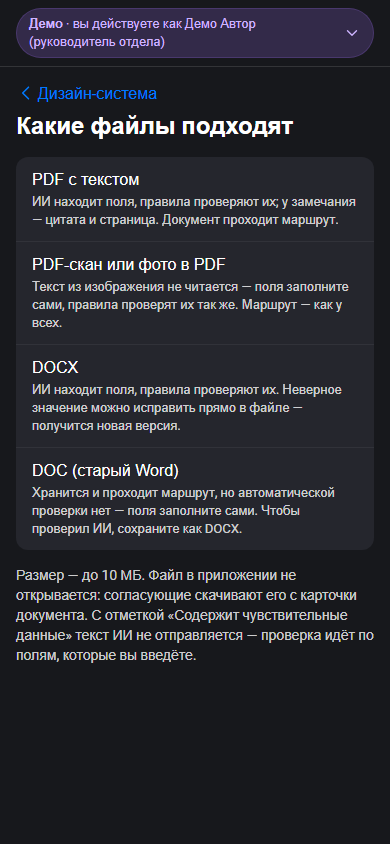
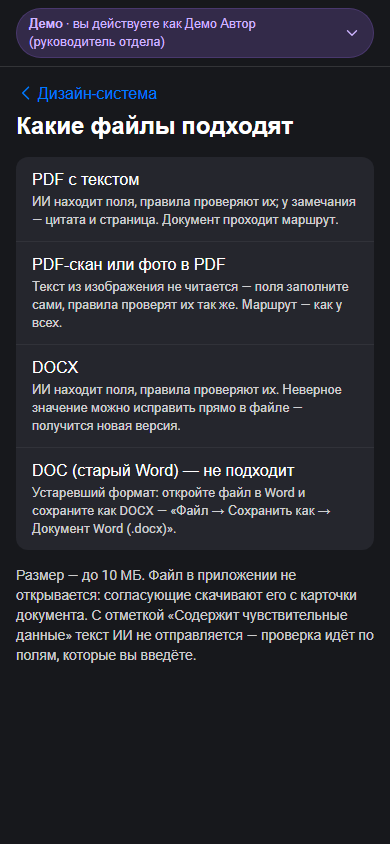
feat(document): DOC не принимаем — совет сохранить как DOCX (D1 пересмотрено) (#108)
Решение Булата 26.09: «принимаем DOC без проверки» выглядело недоделкой — формат заявлен, а ИИ молчит
и поля пустые. Теперь DOC отклоняется и на сервере, и в зоне загрузки с советом пересохранить;
в справке — строка «DOC — не подходит». Черновики, загруженные раньше, не трогаем.

Changed region(s): [[0.0615, 0.5545, 0.8615, 0.6469]]

diff --git a/frontend/src/screens/documents/uploadFormats.ts b/frontend/src/screens/documents/uploadFormats.ts
@@ -1,4 +1,5 @@
-// Какие файлы подходят основным файлом документа (UPL-1, UPL-2, UPL-6, D1). Проверка — сразу после выбора, до отправки,
+// Какие файлы подходят основным файлом документа (UPL-1, UPL-2, UPL-6, D1): PDF и DOCX. DOC не принимаем (D1, пересмотрено
+// 26.09): ИИ его не читает, а полуработающий формат выглядит недоделкой; человеку говорим, как пересохранить. Проверка — сразу после выбора, до отправки,
 // чтобы ошибка появилась в зоне загрузки, а не внизу страницы после ожидания. Сервер проверяет ещё раз — по содержимому.
 
 /** Шаги создания документа (UPL-3) — одинаковые на экранах загрузки, проверки и маршрута. */
@@ -7,14 +8,18 @@ export const CREATE_STEPS = ['Файл', 'Проверка', 'Маршрут'];
 export const MAX_FILE_MB = 10;
 const MAX_FILE_BYTES = MAX_FILE_MB * 1024 * 1024;
 
+/** Строка под зоной загрузки. */
+export const MAIN_FILE_CAPTION = `PDF или DOCX · до ${MAX_FILE_MB} МБ`;
+
+/** Совет для DOC — тот же, что у сервера (DocumentFileValidator). */
+export const DOC_NOT_SUPPORTED = 'DOC — устаревший формат Word. Откройте файл в Word и сохраните как DOCX: «Файл → Сохранить как → Документ Word (.docx)».';
+
 /** Для атрибута accept: браузер и MAX сразу предлагают только подходящие файлы. */
 export const MAIN_FILE_ACCEPT = [
   '.pdf',
   '.docx',
-  '.doc',
   'application/pdf',
   'application/vnd.openxmlformats-officedocument.wordprocessingml.document',
-  'application/msword',
 ].join(',');
 
 type Format = 'pdf' | 'docx' | 'doc';
@@ -37,11 +42,14 @@ const IMAGE = /^(jpe?g|png|heic|heif|webp|gif|bmp|tiff?)$/;
 /** Что не так с файлом — текстом для зоны загрузки; null — подходит. */
 export function fileProblem(file: { name: string; type: string; size: number }): string | null {
   const format = formatOf(file);
+  if (format === 'doc') {
+    return DOC_NOT_SUPPORTED;
+  }
   if (!format) {
     if (IMAGE.test(extension(file.name)) || file.type.startsWith('image/')) {
-      return 'Фото не подходит. Загрузите PDF, DOCX или DOC — например, сохраните документ из Word.';
+      return 'Фото не подходит. Загрузите PDF или DOCX — например, сохраните документ из Word.';
     }
-    return `Файл «${file.name}» не подходит. Загрузите PDF, DOCX или DOC.`;
+    return `Файл «${file.name}» не подходит. Загрузите PDF или DOCX.`;
   }
   if (file.size > MAX_FILE_BYTES) {
     return `Файл больше ${MAX_FILE_MB} МБ. Уменьшите его или загрузите основную часть, остальное — приложениями.`;
@@ -50,9 +58,4 @@ export function fileProblem(file: { name: string; type: string; size: number }):
     return 'Файл пустой — выберите другой.';
   }
   return null;
-}
-
-/** DOC ИИ не читает: такой файл проходит маршрут, но поля заполняются вручную (D1). */
-export function hasLimitedCheck(file: { name: string; type: string }): boolean {
-  return formatOf(file) === 'doc';
 }

diff --git a/frontend/src/screens/documents/uploadFormats.test.ts b/frontend/src/screens/documents/uploadFormats.test.ts
@@ -1,20 +1,19 @@
 import { describe, expect, it } from 'vitest';
-import { fileProblem, hasLimitedCheck } from './uploadFormats';
+import { DOC_NOT_SUPPORTED, MAIN_FILE_ACCEPT, fileProblem } from './uploadFormats';
 
 describe('какие файлы подходят (UPL-2, UPL-6)', () => {
   const file = (name: string, type = '', size = 1024) => ({ name, type, size });
 
-  it('PDF, DOCX и DOC подходят — по расширению или по типу', () => {
+  it('PDF и DOCX подходят — по расширению или по типу', () => {
     expect(fileProblem(file('Записка.PDF'))).toBeNull();
     expect(fileProblem(file('Записка.docx'))).toBeNull();
-    expect(fileProblem(file('Приказ.doc'))).toBeNull();
     expect(fileProblem(file('scan', 'application/pdf'))).toBeNull();
   });
 
   it('фото — понятным текстом, остальное — с именем файла', () => {
     expect(fileProblem(file('IMG_2031.jpg', 'image/jpeg'))).toMatch(/^Фото не подходит/);
     expect(fileProblem(file('photo.HEIC'))).toMatch(/^Фото не подходит/);
-    expect(fileProblem(file('Смета.xlsx'))).toBe('Файл «Смета.xlsx» не подходит. Загрузите PDF, DOCX или DOC.');
+    expect(fileProblem(file('Смета.xlsx'))).toBe('Файл «Смета.xlsx» не подходит. Загрузите PDF или DOCX.');
   });
 
   it('слишком большой и пустой файл', () => {
@@ -22,9 +21,11 @@ describe('какие файлы подходят (UPL-2, UPL-6)', () => {
     expect(fileProblem(file('empty.pdf', '', 0))).toMatch(/пустой/);
   });
 
-  it('ограниченная проверка — только у DOC', () => {
-    expect(hasLimitedCheck(file('Приказ.doc'))).toBe(true);
-    expect(hasLimitedCheck(file('Приказ.docx'))).toBe(false);
+  it('DOC не принимаем, но говорим, как пересохранить (D1, пересмотрено 26.09)', () => {
+    expect(fileProblem(file('Приказ.doc'))).toBe(DOC_NOT_SUPPORTED);
+    expect(fileProblem(file('scan', 'application/msword'))).toBe(DOC_NOT_SUPPORTED);
+    expect(MAIN_FILE_ACCEPT).not.toContain('.doc,');
+    expect(MAIN_FILE_ACCEPT).not.toContain('msword');
   });
 });
 

diff --git a/frontend/src/screens/dev/UploadStatesScreen.tsx b/frontend/src/screens/dev/UploadStatesScreen.tsx
@@ -1,13 +1,13 @@
 import { FileDrop, Page, PageHeader, Section } from '../../ui';
 import { FormatsHelp } from '../documents/FormatsHelp';
-import { MAIN_FILE_ACCEPT, MAX_FILE_MB, fileProblem } from '../documents/uploadFormats';
+import { MAIN_FILE_ACCEPT, MAIN_FILE_CAPTION, fileProblem } from '../documents/uploadFormats';
 
 // Состояния зоны загрузки (UPL-1, UPL-2, UPL-6) на одном экране — только dev: их не открыть по адресу, а снимки для
 // ревью нужны. ?part=help — содержимое справки «Какие файлы подходят».
 
 const photo = { name: 'IMG_2031.jpg', type: 'image/jpeg', size: 2_400_000 };
 const doc = new File([new Uint8Array(48_000)], 'Приказ_о_премии.doc', { type: 'application/msword' });
-const caption = `PDF, DOCX или DOC · до ${MAX_FILE_MB} МБ`;
+const caption = MAIN_FILE_CAPTION;
 const noop = () => undefined;
 
 export function UploadStatesScreen() {
@@ -24,17 +24,8 @@ export function UploadStatesScreen() {
           <Section title="Фото — ошибка в зоне">
             <FileDrop file={null} accept={MAIN_FILE_ACCEPT} title="Выберите файл документа" caption={caption} error={fileProblem(photo)} help={<FormatsHelp />} onSelect={noop} onRemove={noop} />
           </Section>
-          <Section title="DOC — спокойная пометка">
-            <FileDrop
-              file={doc}
-              accept={MAIN_FILE_ACCEPT}
-              title="Выберите файл документа"
-              caption={caption}
-              note="Для этого файла автоматическая проверка недоступна — поля заполните вручную."
-              help={<FormatsHelp />}
-              onSelect={noop}
-              onRemove={noop}
-            />
+          <Section title="DOC — совет пересохранить">
+            <FileDrop file={null} accept={MAIN_FILE_ACCEPT} title="Выберите файл документа" caption={caption} error={fileProblem(doc)} help={<FormatsHelp />} onSelect={noop} onRemove={noop} />
           </Section>
         </>
       )}

diff --git a/frontend/src/screens/documents/FormatsHelp.tsx b/frontend/src/screens/documents/FormatsHelp.tsx
@@ -3,7 +3,8 @@ import { MAX_FILE_MB } from './uploadFormats';
 
 /**
  * «Какие файлы подходят» (UPL-6) — только то, что реально работает в коде: текст PDF читает PDFBox, DOCX — средствами
- * JDK, DOC и сканы без текстового слоя не читаются (D1; CLAUDE.md, «Сканы без текстового слоя не распознаём»). Файл
+ * JDK, сканы без текстового слоя не читаются (CLAUDE.md, «Сканы без текстового слоя не распознаём»). DOC не принимаем
+ * (D1, пересмотрено 26.09) — в справке сказано, как пересохранить. Файл
  * в приложении не открывается — только скачивается. Маршрут согласования проходит любой из этих форматов.
  */
 export function FormatsHelp() {
@@ -23,8 +24,8 @@ export function FormatsHelp() {
           subtitle="ИИ находит поля, правила проверяют их. Неверное значение можно исправить прямо в файле — получится новая версия."
         />
         <Row
-          title="DOC (старый Word)"
-          subtitle="Хранится и проходит маршрут, но автоматической проверки нет — поля заполните сами. Чтобы проверил ИИ, сохраните как DOCX."
+          title="DOC (старый Word) — не подходит"
+          subtitle="Устаревший формат: откройте файл в Word и сохраните как DOCX — «Файл → Сохранить как → Документ Word (.docx)»."
         />
       </List>
       <Muted>

diff --git a/frontend/src/screens/documents/NewDocumentVersionScreen.tsx b/frontend/src/screens/documents/NewDocumentVersionScreen.tsx
@@ -5,7 +5,7 @@ import { createDocumentVersion, getDocument, getDocumentTypes } from '../../api/
 import { errorMessage } from '../../api/errors';
 import type { DocumentCard, DocumentType } from '../../api/types';
 import { FormatsHelp } from './FormatsHelp';
-import { MAIN_FILE_ACCEPT, MAX_FILE_MB, fileProblem, hasLimitedCheck } from './uploadFormats';
+import { MAIN_FILE_ACCEPT, MAIN_FILE_CAPTION, fileProblem } from './uploadFormats';
 import { ErrorState, Button, FileDrop, formatFileSize } from '../../ui';
 import { documentCardPath, documentCheckPath } from '../../routes/paths';
 import {
@@ -138,9 +138,8 @@ export function NewDocumentVersionScreen() {
           file={newMain}
           accept={MAIN_FILE_ACCEPT}
           title="Выберите исправленный файл"
-          caption={`PDF, DOCX или DOC · до ${MAX_FILE_MB} МБ`}
+          caption={MAIN_FILE_CAPTION}
           error={newMainError}
-          note={newMain && hasLimitedCheck(newMain) ? 'Для этого файла автоматическая проверка недоступна — поля заполните вручную.' : undefined}
           help={<FormatsHelp />}
           onSelect={(file) => {
             const problem = fileProblem(file);

diff --git a/frontend/src/screens/documents/DocumentCheckScreen.tsx b/frontend/src/screens/documents/DocumentCheckScreen.tsx
@@ -394,7 +394,8 @@ export function DocumentCheckScreen() {
   const canSaveFields = card.permissions.canEditFields || (isReturned && card.permissions.canUploadVersion);
   const canEdit = canSaveFields || card.permissions.canCorrectFile;
   const isPdf = Boolean(mainFile && mainFile.mimeType !== DOCX && mainFile.mimeType !== OLD_WORD);
-  // DOC (старый Word) ИИ не читает — это не скан, и человеку нужен другой совет (ревью Матвея на #113, п. 1).
+  // DOC (старый Word) новым файлом не принимается (D1, пересмотрено 26.09), но черновики, загруженные раньше, остались:
+  // у них текст не читается не потому, что это скан, — совет другой (ревью Матвея на #113, п. 1).
   const isOldWord = Boolean(mainFile && (mainFile.mimeType === OLD_WORD || /\.doc$/i.test(mainFile.fileName)));
   const modelAvailable = check?.modelAvailable ?? false;
   const manualCount = check?.fields.filter((field) => field.source === 'MANUAL' && field.fileValue != null).length ?? 0;

diff --git a/frontend/src/screens/documents/DocumentUploadScreen.tsx b/frontend/src/screens/documents/DocumentUploadScreen.tsx
@@ -21,7 +21,7 @@ import {
 } from '../../ui';
 import { FieldInputs, fieldStyle, labelStyle, sectionStyle, stackStyle } from './DocumentFormParts';
 import { FormatsHelp } from './FormatsHelp';
-import { CREATE_STEPS, MAIN_FILE_ACCEPT, MAX_FILE_MB, fileProblem, hasLimitedCheck } from './uploadFormats';
+import { CREATE_STEPS, MAIN_FILE_ACCEPT, MAIN_FILE_CAPTION, fileProblem } from './uploadFormats';
 
 const FORM_ID = 'document-upload-form';
 const UPLOAD_BACK = { to: ROUTE_PATTERNS.home, label: 'Главная' };
@@ -160,9 +160,8 @@ export function DocumentUploadScreen() {
           file={mainFile}
           accept={MAIN_FILE_ACCEPT}
           title="Выберите файл документа"
-          caption={`PDF, DOCX или DOC · до ${MAX_FILE_MB} МБ`}
+          caption={MAIN_FILE_CAPTION}
           error={fileError}
-          note={mainFile && hasLimitedCheck(mainFile) ? 'Для этого файла автоматическая проверка недоступна — поля заполните вручную.' : undefined}
           help={<FormatsHelp />}
           onSelect={selectFile}
           onRemove={() => {

diff --git a/frontend/src/screens/dev/DesignScreen.tsx b/frontend/src/screens/dev/DesignScreen.tsx
@@ -140,7 +140,7 @@ export function DesignScreen() {
       <Section title="Сообщения">
         <Notice>Для этого файла автоматическая проверка недоступна — поля заполните вручную.</Notice>
         <Notice tone="warning">Документ вернули на доработку: поправьте замечания и отправьте заново.</Notice>
-        <InlineError>Фото не подходит. Загрузите PDF, DOCX или DOC.</InlineError>
+        <InlineError>Фото не подходит. Загрузите PDF или DOCX.</InlineError>
       </Section>
 
       <EmptyState title="Ничего не ждёт вашего решения" text="Когда подойдёт ваша очередь, документ появится здесь, а бот пришлёт сообщение." />

diff --git a/backend/src/main/java/ru/sibvibe/approval/document/service/DocumentFileValidator.java b/backend/src/main/java/ru/sibvibe/approval/document/service/DocumentFileValidator.java
@@ -23,8 +23,6 @@ public class DocumentFileValidator {
     private static final String PDF = "application/pdf";
     private static final String DOCX =
             "application/vnd.openxmlformats-officedocument.wordprocessingml.document";
-    /** Старый формат Word (D1): хранится и идёт по маршруту, текст не читаем — как PDF-скан. */
-    public static final String DOC = "application/msword";
     private static final byte[] OLE2 = {(byte) 0xD0, (byte) 0xCF, 0x11, (byte) 0xE0, (byte) 0xA1, (byte) 0xB1, 0x1A, (byte) 0xE1};
 
     public ValidatedFile validateMain(MultipartFile file) {
@@ -57,15 +55,17 @@ public class DocumentFileValidator {
             return DOCX;
         }
         if (isDoc(content, fileName)) {
-            return DOC;
+            // D1 (пересмотрено 26.09): DOC не принимаем — ИИ его не читает, а полуработающий формат выглядит недоделкой.
+            // Говорим, как пересохранить: это десять секунд в Word.
+            throw DocumentApiException.fileTypeNotAllowed(DOC_NOT_SUPPORTED);
         }
-        throw DocumentApiException.fileTypeNotAllowed("Основной файл должен быть PDF, DOCX или DOC");
+        throw DocumentApiException.fileTypeNotAllowed("Основной файл должен быть PDF или DOCX");
     }
 
-    /**
-     * DOC — контейнер OLE2 (тот же заголовок у старых XLS и PPT), поэтому кроме содержимого проверяется и расширение:
-     * таблица, переименованная в .doc, всё равно пройдёт как «файл без текста», не как документ с полями.
-     */
+    static final String DOC_NOT_SUPPORTED = "DOC — устаревший формат Word. Откройте файл в Word и сохраните как DOCX: "
+            + "«Файл → Сохранить как → Документ Word (.docx)»";
+
+    /** DOC — контейнер OLE2 с расширением .doc: распознаём только ради понятной ошибки с советом. */
     private boolean isDoc(byte[] content, String fileName) {
         if (content.length < OLE2.length || !fileName.toLowerCase(java.util.Locale.ROOT).endsWith(".doc")) {
             return false;

diff --git a/backend/src/test/java/ru/sibvibe/approval/document/service/DocumentFileValidatorTest.java b/backend/src/test/java/ru/sibvibe/approval/document/service/DocumentFileValidatorTest.java
@@ -50,14 +50,17 @@ class DocumentFileValidatorTest {
     }
 
     @Test
-    void acceptsLegacyWordDocumentOnlyWithTheDocExtension() {
+    void legacyWordDocumentIsRejectedWithAdviceToSaveAsDocx() {
         byte[] ole2 = new byte[512];
         byte[] header = {(byte) 0xD0, (byte) 0xCF, 0x11, (byte) 0xE0, (byte) 0xA1, (byte) 0xB1, 0x1A, (byte) 0xE1};
         System.arraycopy(header, 0, ole2, 0, header.length);
 
-        // D1: DOC хранится и идёт по маршруту как файл без текста
-        assertThat(validator.validateMain(file("Приказ.DOC", "application/octet-stream", ole2)).mimeType())
-                .isEqualTo("application/msword");
+        // D1 (пересмотрено 26.09): DOC не принимаем, но говорим, как пересохранить
+        assertThatThrownBy(() -> validator.validateMain(file("Приказ.DOC", "application/octet-stream", ole2)))
+                .isInstanceOfSatisfying(DocumentApiException.class, exception -> {
+                    assertThat(exception.code()).isEqualTo("FILE_TYPE_NOT_ALLOWED");
+                    assertThat(exception.getMessage()).contains("сохраните как DOCX");
+                });
         // тот же контейнер у старых XLS и PPT — по расширению это не документ
         assertThatThrownBy(() -> validator.validateMain(file("table.xls", "application/vnd.ms-excel", ole2)))
                 .isInstanceOfSatisfying(DocumentApiException.class,

diff --git a/backend/src/main/java/ru/sibvibe/approval/ai/adapter/PdfDocxTextExtractor.java b/backend/src/main/java/ru/sibvibe/approval/ai/adapter/PdfDocxTextExtractor.java
@@ -27,7 +27,7 @@ public class PdfDocxTextExtractor implements TextExtractor {
     private static final Logger LOGGER = LoggerFactory.getLogger(PdfDocxTextExtractor.class);
     private static final String PDF = "application/pdf";
     private static final String DOCX = "application/vnd.openxmlformats-officedocument.wordprocessingml.document";
-    /** DOC (D1): текст не читаем — без Apache POI, он не укладывается в лимит сборки. Файл — «без текста», как скан. */
+    /** DOC: новые не принимаются (D1, пересмотрено 26.09); ветка — для черновиков, загруженных раньше: файл «без текста». */
     private static final String DOC = "application/msword";
     private static final String DOCUMENT_XML = "word/document.xml";
     private static final int MAX_INPUT_BYTES = 12 * 1024 * 1024;

diff --git a/docs/review-round-1/DECISIONS.md b/docs/review-round-1/DECISIONS.md
@@ -10,12 +10,14 @@
 ## Открытые решения D1–D7
 
 ### D1 · Формат DOC
-**Принимаем DOC как файл без автоматической проверки** · Apache POI в проекте нет (убран: полная сборка шла 384 с при
-лимите кейса 300 с), а HWPF, которым читается DOC, — часть того же POI; своя разборка OLE2 — неоправданный риск перед
-сдачей. При этом решение B итогового решения обещает: хранить и проводить по маршруту можно любой файл. DOC ведёт себя как
-PDF-скан: хранится, версионируется, идёт по маршруту, поля заполняются вручную, правила проверяют их так же · у DOC нет
-ИИ-проверки. Показ — UPL-6 (поправка 25.09): никакого постоянного предупреждения про DOC; справка «?» по всем форматам,
-строка «PDF, DOCX или DOC · до 10 МБ» и спокойная строка на карточке файла с ограниченной проверкой.
+**Пересмотрено 26.09 (решение Булата): DOC не принимаем — только PDF и DOCX.** На DOC — ошибка в зоне загрузки с советом:
+«DOC — устаревший формат Word. Откройте файл в Word и сохраните как DOCX: «Файл → Сохранить как → Документ Word (.docx)»»;
+сервер отвечает тем же текстом · Прочитать DOC нечем: Apache POI убран из-за лимита сборки (384 с при 300), HWPF — часть
+того же POI. Первое решение (25.09) — принимать DOC как файл без проверки — на деле выглядело недоделкой: формат заявлен,
+а ИИ молчит, поля пустые, и ещё замечания «не нашли дату, номер, подпись», хотя файл просто не читался. Отказ с понятной
+причиной — осознанная граница MVP, а пересохранить файл — десять секунд. Решение B («провести по маршруту можно любой
+документ») — про любой вид документа, не про любой формат файла · человек со старым файлом не загрузит его сразу. DOC-черновики,
+загруженные до 26.09, не трогаем: экран проверки для них пишет «Старый формат Word (DOC): ИИ его не читает…».
 
 ### D2 · Вид документа
 **ИИ выбирает вид из шаблонов компании; если не подходит ни один — «Другой документ», а распознанный ИИ вид («Договор
@@ -83,7 +85,7 @@ README.
 | 2 | LNK-1: «общая ссылка → заявка создаётся автоматически» против прежнего «ввести код → «Отправить заявку»» | Заявка по ссылке с кодом подаётся сразу при открытии, экран «Заявка отправлена» с кнопкой «Отменить заявку». Заявка не даёт доступа — решает администратор, поэтому лишнее нажатие ничего не защищает |
 | 3 | D4 в review: «Подписание», «Согласован и подписан» против итогового решения (решение P: без квалифицированной подписи не заявляем подпись) | Поправка 25.09: «Утверждение», «Утвердить», «На утверждении», «Утверждён» (D4) |
 | 4 | D3 в review против инварианта итогового решения «маршрут только расширяется» | Поправка 25.09: обязательные не удаляются, остальное — на усмотрение автора (D3); CLAUDE.md переписан явно |
-| 5 | D1 в review: «в проекте уже есть Apache POI» — неверно | POI убран из-за лимита сборки; DOC принимается без проверки (D1) |
+| 5 | D1 в review: «в проекте уже есть Apache POI» — неверно | POI убран из-за лимита сборки; DOC не принимаем, с советом пересохранить как DOCX (D1, пересмотрено 26.09) |
 | 6 | DOC-7 (поправка 25.09): «проверка по правилам не проводится» против кода: у «Другого документа» проверяются общие реквизиты (дата, номер, подпись), замечания — только предупреждения | Тексты говорят правду из кода: «подробной проверки по правилам вида нет, проверены только общие реквизиты». Принцип UPL-6: писать только то, что реально работает |
 | 7 | Итоговое решение (MUST): списки «ждут меня», «мои документы», «доступные мне» против NAV-2 | Те же три списка, но с новыми названиями и пояснениями: «На моём согласовании», «Мои документы», «Общие документы». Функция сохранена, названия — по review |
 | 8 | Итоговое решение: «предпросмотр маршрута — тот же виджет живёт на карточке» против RTE-1 и DOC-1 | Перед отправкой — конструктор маршрута, на карточке — таймлайн отслеживания; данные одни и те же |
@@ -121,7 +123,7 @@ README.
 | Уже открытое приложение (LNK-2) | Перезагрузка и тогда, когда хэш прежний, а мост отдал другую `initData`; не больше одного раза на одну строку запуска | Как MAX передаёт повторный запуск, в документации моста не описано (сверено 25.09); это последний признак, который мы можем заметить сами. Остальное — в списке «проверить руками» |
 | Уведомление согласующему | ««…» ждёт вашего решения. Он в разделе «На моём согласовании».»; утверждающему — «ждёт вашего утверждения», автору — «утверждён» | NAV-2: одни и те же слова в приложении и в боте; D4 |
 
-| Зона загрузки (UPL-1, UPL-6) | Одна крупная пунктирная карточка, «?» — в её углу; справка — нижней панелью, а не текстом под зоной | Под зоной остаётся одна короткая строка «PDF, DOCX или DOC · до 10 МБ», а подробности — тем, кому они нужны; постоянного предупреждения про один формат нет (поправка 25.09) |
+| Зона загрузки (UPL-1, UPL-6) | Одна крупная пунктирная карточка, «?» — в её углу; справка — нижней панелью, а не текстом под зоной | Под зоной остаётся одна короткая строка «PDF или DOCX · до 10 МБ», а подробности — тем, кому они нужны; постоянного предупреждения про один формат нет (поправка 25.09) |
 | Шаги создания (UPL-3) | Три шага «Файл → Проверка → Маршрут» полосой под шапкой; «Отправить» — кнопка третьего шага, а не четвёртый шаг | Четвёртый шаг был бы пустым экраном из одной кнопки; на экране проверки шаги видны только у черновика, который автор может отправить, — у согласующего это не «создание» |
 | «Другой документ» на шаге проверки (DOC-7) | Плашка с распознанным видом заменяет строку вида над ней, а не повторяет её | Два «Акт ✦» подряд — шум; «Сменить вид» у такого документа — кнопка «Выбрать вид из списка» в плашке |
 | Признак «вне шаблонов» | По коду вида `GENERIC`, а не по `is_generic` | `is_generic` значит «вид без схемы полей»; у «Другого документа» схема есть с #86, и признак у него false — по нему распознанный вид не показывался бы нигде |
